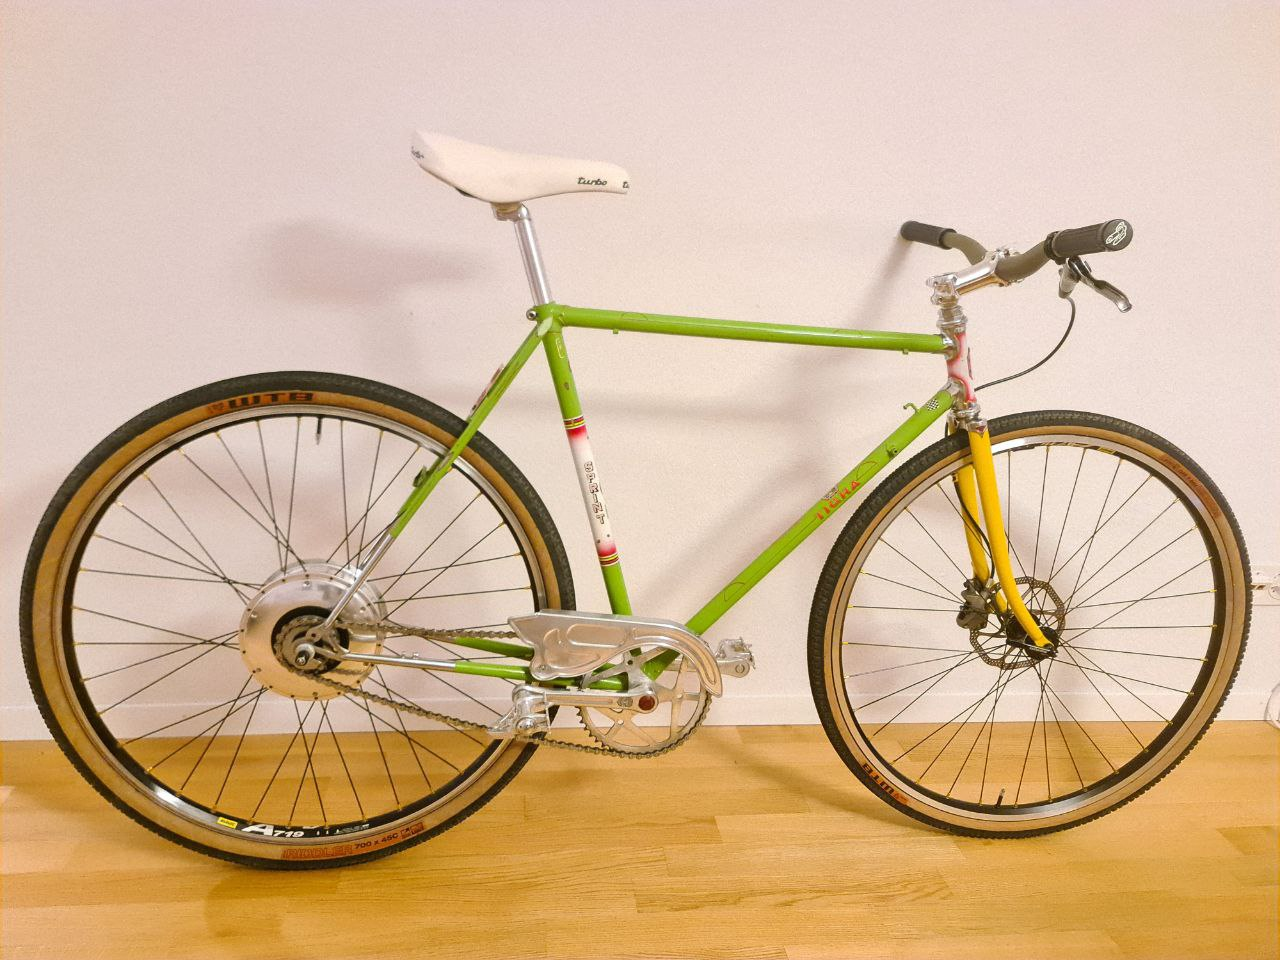
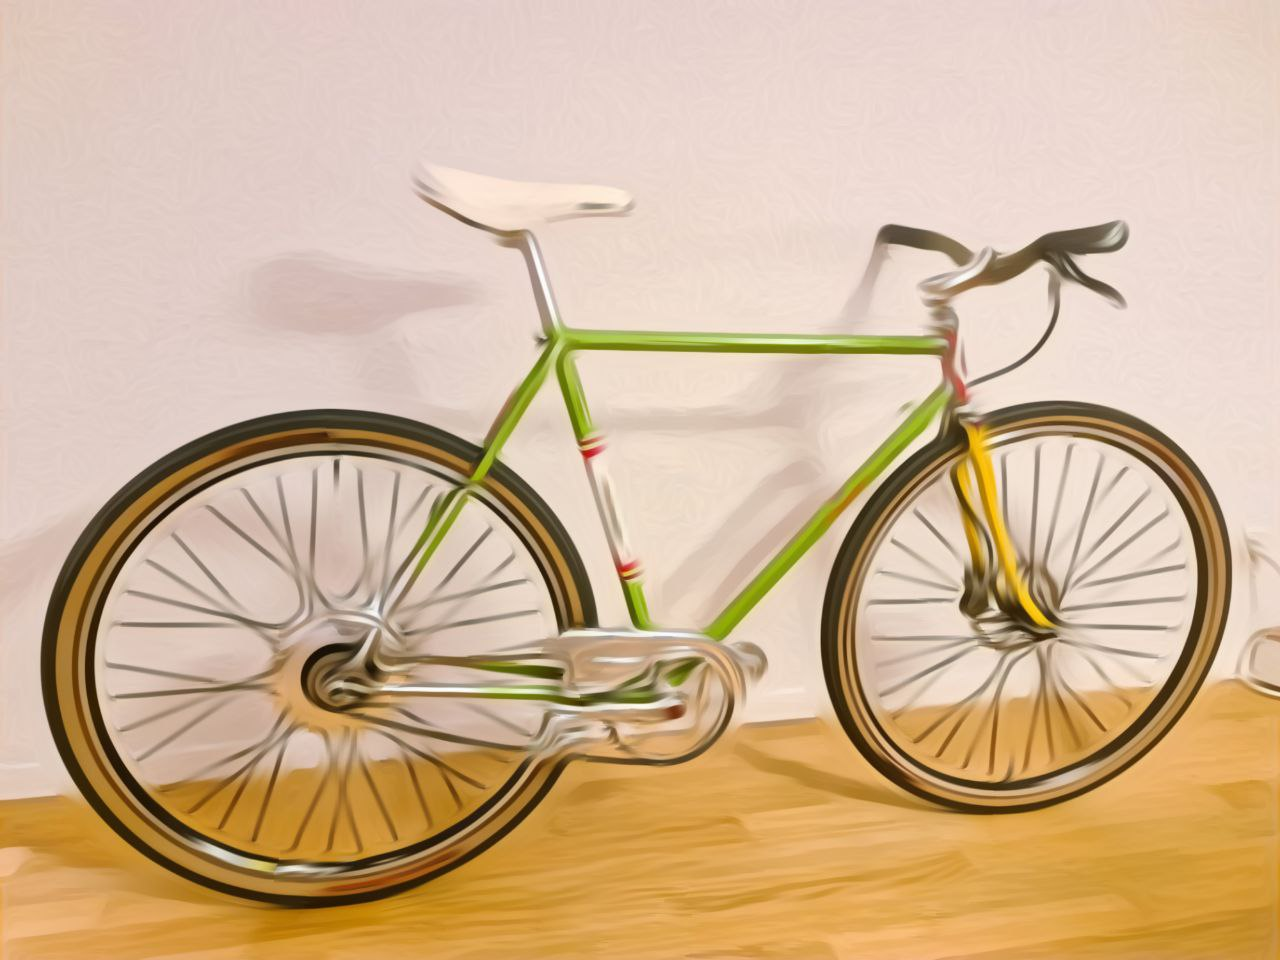
framing all bicycles v9

diff --git a/index.md b/index.md
@@ -1,6 +1,6 @@
 {% include header.html %}
 
-![](velominds.png)
+
 
 ### Long term rental of eroica bicycles converted to e-velos to minimize raw materials and energy consumption
 <p> contact velominds@gmail.com for long-term rental </p>
@@ -13,6 +13,7 @@
 
 <p>This is Velominds.</p>
 <p>We love bikes.</p>
+![](velominds.png)
 <p>We convert eroicas to electric bikes</p>
 <p>We love sustainability</p>
 

diff --git a/tutorialZeusTH123.md b/tutorialZeusTH123.md
@@ -2,7 +2,7 @@
 
 # ZeusTH123
 
-![velominds](TH123v1.jpg)
+![velominds](TH123v2.png)
 
 <a href="https://www.instagram.com/velominds/">instagram</a> <a href="https://www.pinterest.ch/velominds/circular-concept-iii/">pinterest</a> 
 
